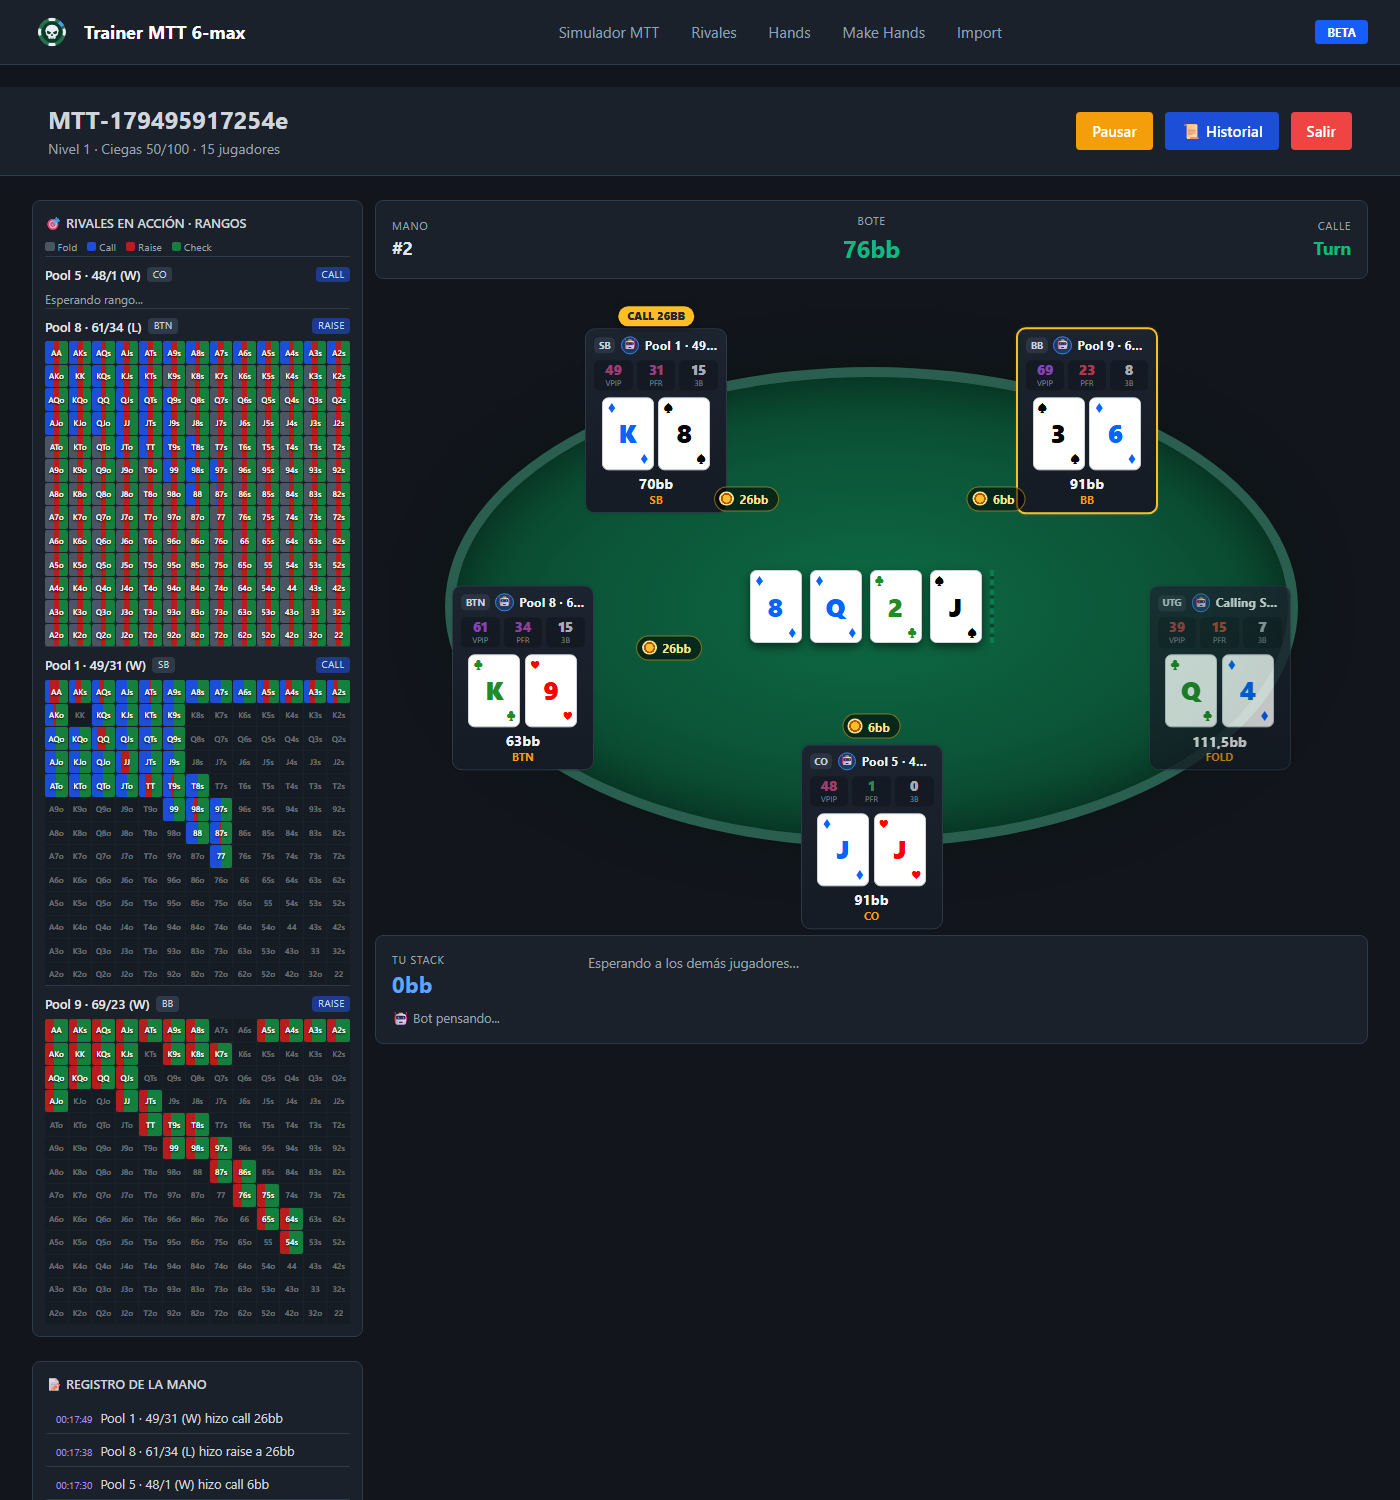
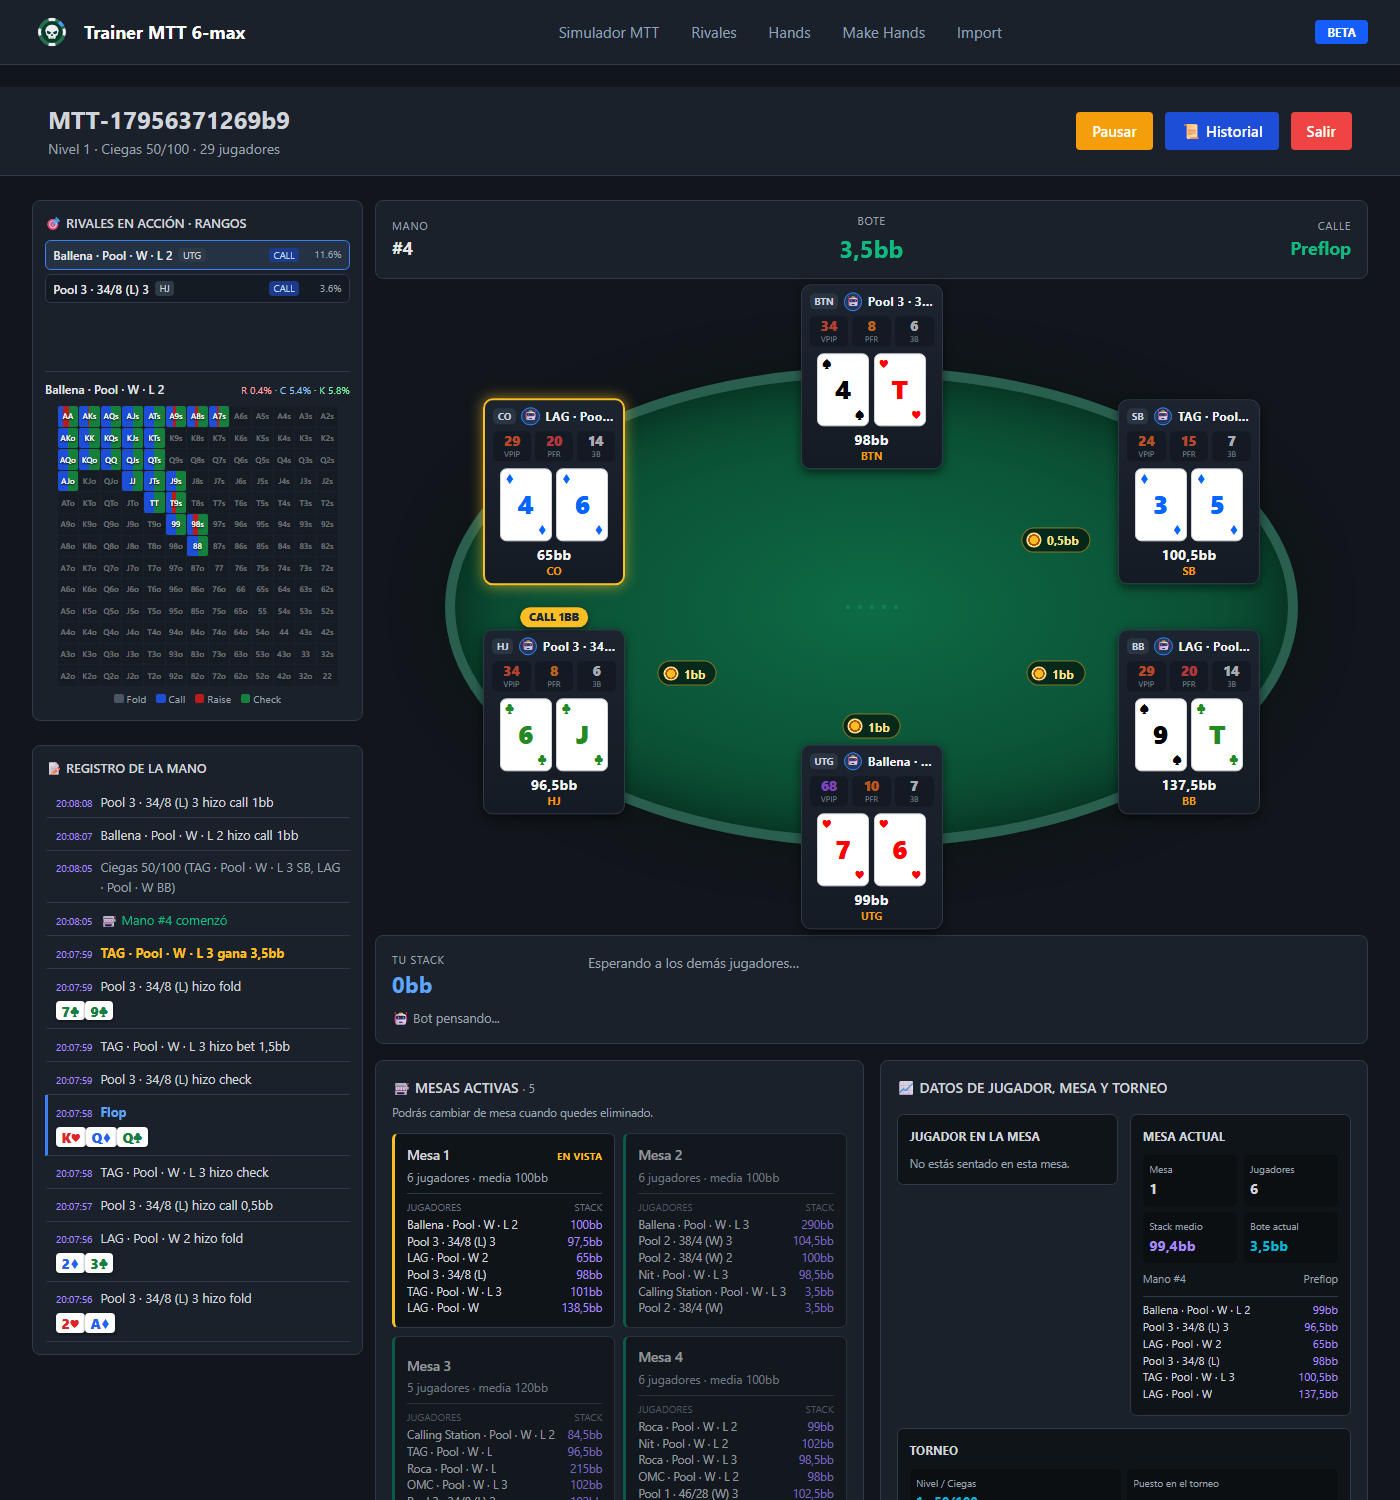
README: mejoras de la IA y la importación, y captura nueva de la mesa

diff --git a/README.md b/README.md
@@ -40,7 +40,9 @@ Los rivales que juegan son los perfiles generados por la importación de PokerTr
 
 Preflop, cada rival decide con unas tablas por mano, posición y tramo de stack (menos de 10, 10-20, 20-40 y 40 o más ciegas grandes) que se generan de sus propias estadísticas: abrir, limpear, defender, responder a un 3-bet y a un 3-bet o 4-bet sin haber abierto. Con stack corto parte de sus subidas pasan a all-in según cómo juegue ese perfil. Postflop deciden las reglas del cerebro y una percepción que varía según la habilidad.
 
-Está en proceso de pulido. Quedan por hacer, entre otras cosas, que el postflop use los rangos de los rivales y tablas más finas por posición del abridor.
+Mejoras recientes: la respuesta ante limpers (subir para aislar, pagar o foldear) sale de lo que cada perfil hace con limpers delante; la respuesta de quien abre ante un 3-bet usa solo a los que abrieron, y tras limpear y recibir una subida hay estadística propia de pagar o foldear; en las ciegas, la defensa se guarda por posición del abridor. Postflop, el fold ante apuestas ya no se amplifica de más, los botes con limpers usan las estadísticas de PokerTracker por tipo de bote (limp, subido, 3-bet, 4-bet) y la textura del board (seco, conectado, con color…) ajusta la frecuencia de apostar y de foldear.
+
+Está en proceso de pulido. Quedan por hacer, entre otras cosas, tablas más finas por posición del abridor, que la defensa de la ciega grande ante aperturas sea menos amplia y perfiles Pool más finos (hoy un grupo puede reunir a miles de jugadores).
 
 ### IA local en las cuatro calles (rama `feature/ia-bots`, en pruebas)
 
@@ -59,7 +61,15 @@ Medición con 150 decisiones reales de un jugador de PokerTracker (`php artisan 
 
 Preflop, turn y river usan el mismo molde, con **la mano como historia**: el cuestionario cuenta el preflop y cada calle jugada, y el rango de cada jugador se estrecha con lo que hizo en las calles anteriores (`HandStory`, `RangeStory`, `BoardStory`). Mediciones con 100 decisiones reales (pérdida log, solo perfil → IA con rango): preflop con tabla de la mano 0,59 (copia la tabla, no la mejora); turn 0,595 → 0,479; river 0,721 → 0,777 (acierta más veces la acción más probable, pero es más tajante que el jugador real). Detalle en `Trainer-MTT-DOCS/14-IA-preflop-historia-y-memoria.md`.
 
-Pendiente: memoria y capacidades por torneo (ninguna, torneo, historial), que el importador guarde el cbet por heads-up/multiway, afinar el rango del river (slowplay), medir la adaptación con rivales extremos y el contexto de torneo (ICM, ciegas).
+Herramientas que se añaden al cuestionario (todo cálculo exacto, la IA solo lee el resultado):
+
+- **Blockers** (`poker/blockers.py`): qué parte de su rango, por familias (valor, proyectos, faroles), quitan nuestras cartas.
+- **Ventaja de rango** (`poker/range_advantage.py`): equity media y proporción de nuts de cada rango sobre el board, con una muestra de 250 combos por rango para no encarecer la decisión.
+- **Memoria por torneo**: un bot puede recordar cómo juega cada rival durante el torneo (`bot_memory`: ninguna o torneo) con más estadísticas observadas por calle.
+
+Cómo se mide si funciona: `php artisan bots:replay` reproduce manos reales de PokerTracker, pregunta a cada bot lo que haría y cuenta cuántas veces su acción más probable coincide con la de la persona (intervalo de confianza al 95 %, pérdida log y línea base). La importación lo ejecuta sola al terminar y deja el resultado en su registro: hoy ≈ 56 % (±4) con las cartas desconocidas muestreadas, sin descartar a nadie. `php artisan bots:compare-engines` compara motores sobre las mismas decisiones: reglas ≈ IA directa (≈ 67 %, ±5; la IA calibra algo mejor, pérdida log 0,87 frente a 0,91), y ni el análisis breve ni el modo de razonamiento del modelo mejoran (este último tarda ~1 minuto por decisión). Conclusión de las pruebas: razonar más no es la palanca, sino darle información nueva; los blockers y la ventaja de rango todavía no muestran una mejora medible dentro del margen de error. Detalle en `Trainer-MTT-DOCS/14-IA-preflop-historia-y-memoria.md`.
+
+Pendiente: el perfil por situación (que la IA lea las estadísticas de PokerTracker por tipo de bote y stack), blockers sobre el rango estrechado por la historia, reintento cuando el modelo no da probabilidad a ninguna acción (≈ 5 % de las decisiones, hoy cae a las reglas), afinar el rango del river (slowplay), medir la adaptación con rivales extremos y el contexto de torneo (ICM, ciegas).
 
 ### Reproducción de torneos
 
@@ -73,7 +83,7 @@ Hay más ideas y mejoras planteadas que se irán definiendo durante el desarroll
 
 En `/import` se puede subir una copia comprimida de una base de PokerTracker 4. El sistema la procesa en una base temporal, calcula estadísticas de los jugadores y las distribuye entre perfiles de bot. Cuando un jugador no encaja en los perfiles disponibles, se puede generar un bot nuevo. Después de importar, los perfiles se pueden revisar y configurar en la aplicación.
 
-Las estadísticas se calculan en general, por posición y por tramo de stack, y con ellas se generan las tablas de decisión de cada perfil. También se guarda una matriz de apuestas (tipo de mano y tamaño, por calle) que se consulta con `php artisan bots:bet-matrix`. Con los datos de los showdown se ajusta qué tipo de manos juega cada perfil, y las estadísticas extremas se acotan para evitar rangos irreales (por ejemplo, que un rival foldee AA).
+Las estadísticas se calculan en general, por posición y por tramo de stack, y con ellas se generan las tablas de decisión de cada perfil. También se guarda una matriz de apuestas (tipo de mano y tamaño, por calle) que se consulta con `php artisan bots:bet-matrix`. También guarda las estadísticas postflop por tipo de bote y por stack, la frecuencia de subir contra limpers, la respuesta a un limp y la textura del board por población. Al terminar, la importación comprueba sola cuánto se parecen los perfiles a los jugadores reales y lo deja en su registro. Con los datos de los showdown se ajusta qué tipo de manos juega cada perfil, y las estadísticas extremas se acotan para evitar rangos irreales (por ejemplo, que un rival foldee AA).
 
 ### Simular un torneo y comprobar cómo juegan los bots
 
